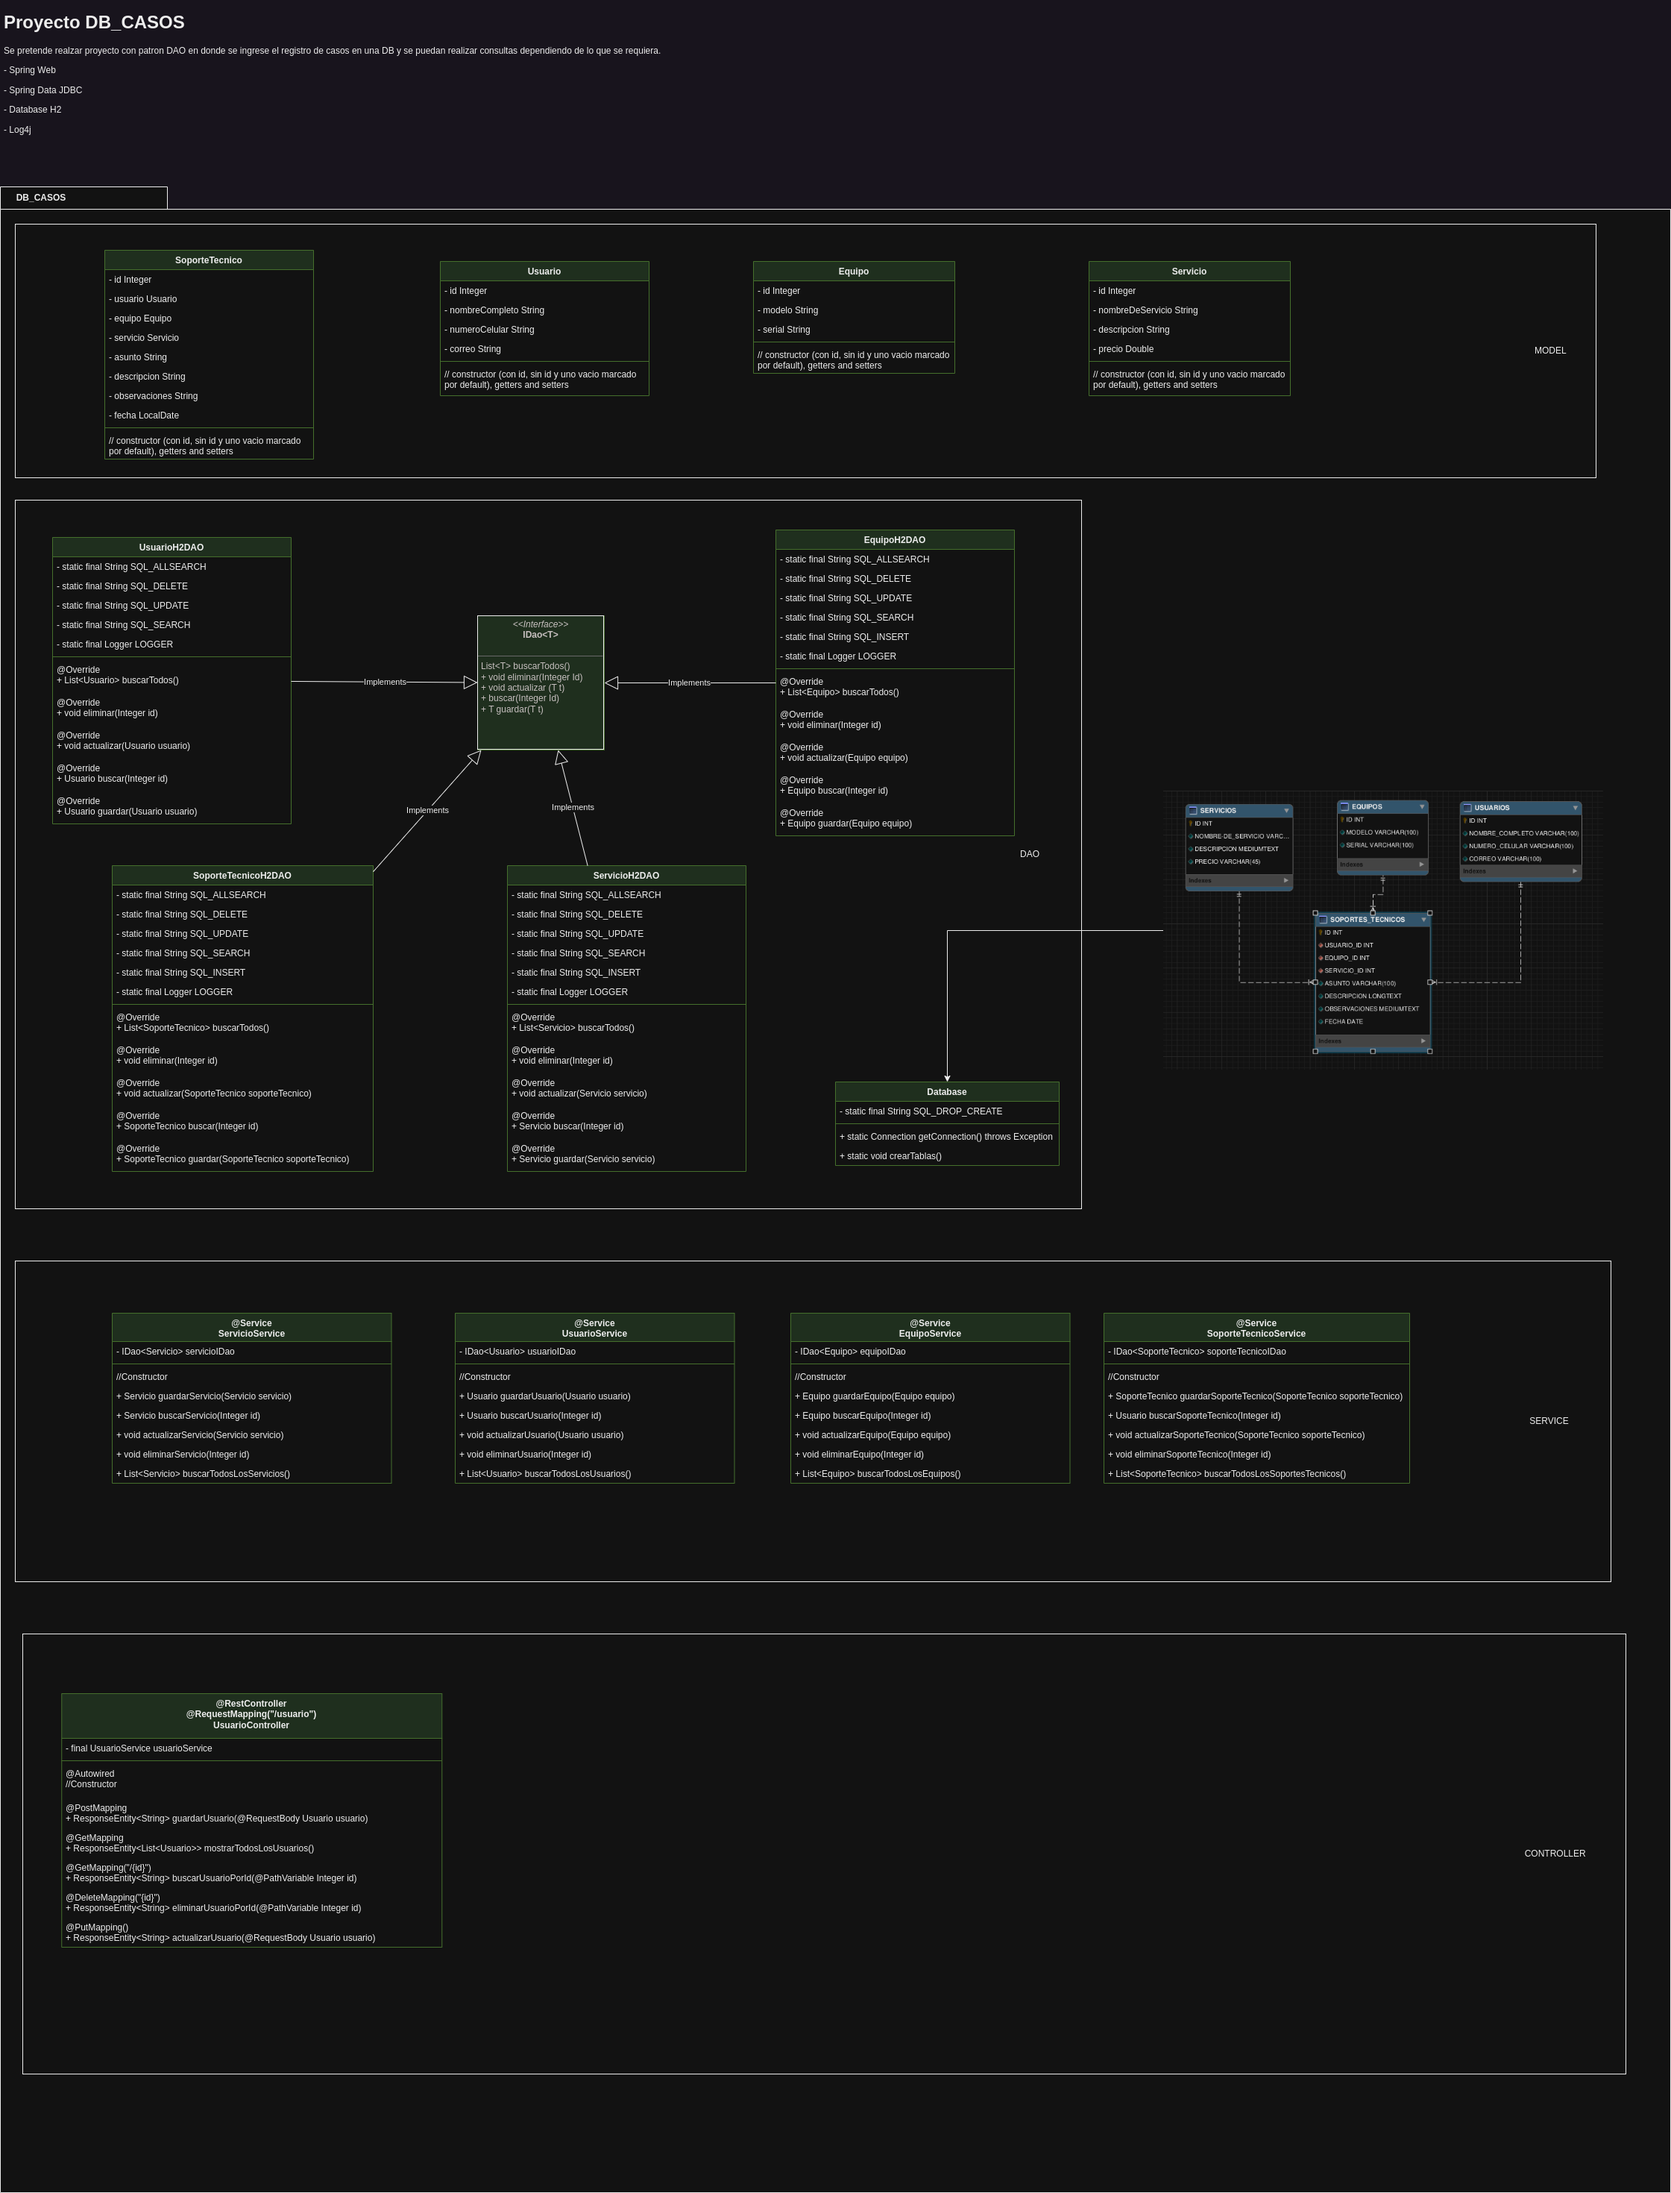
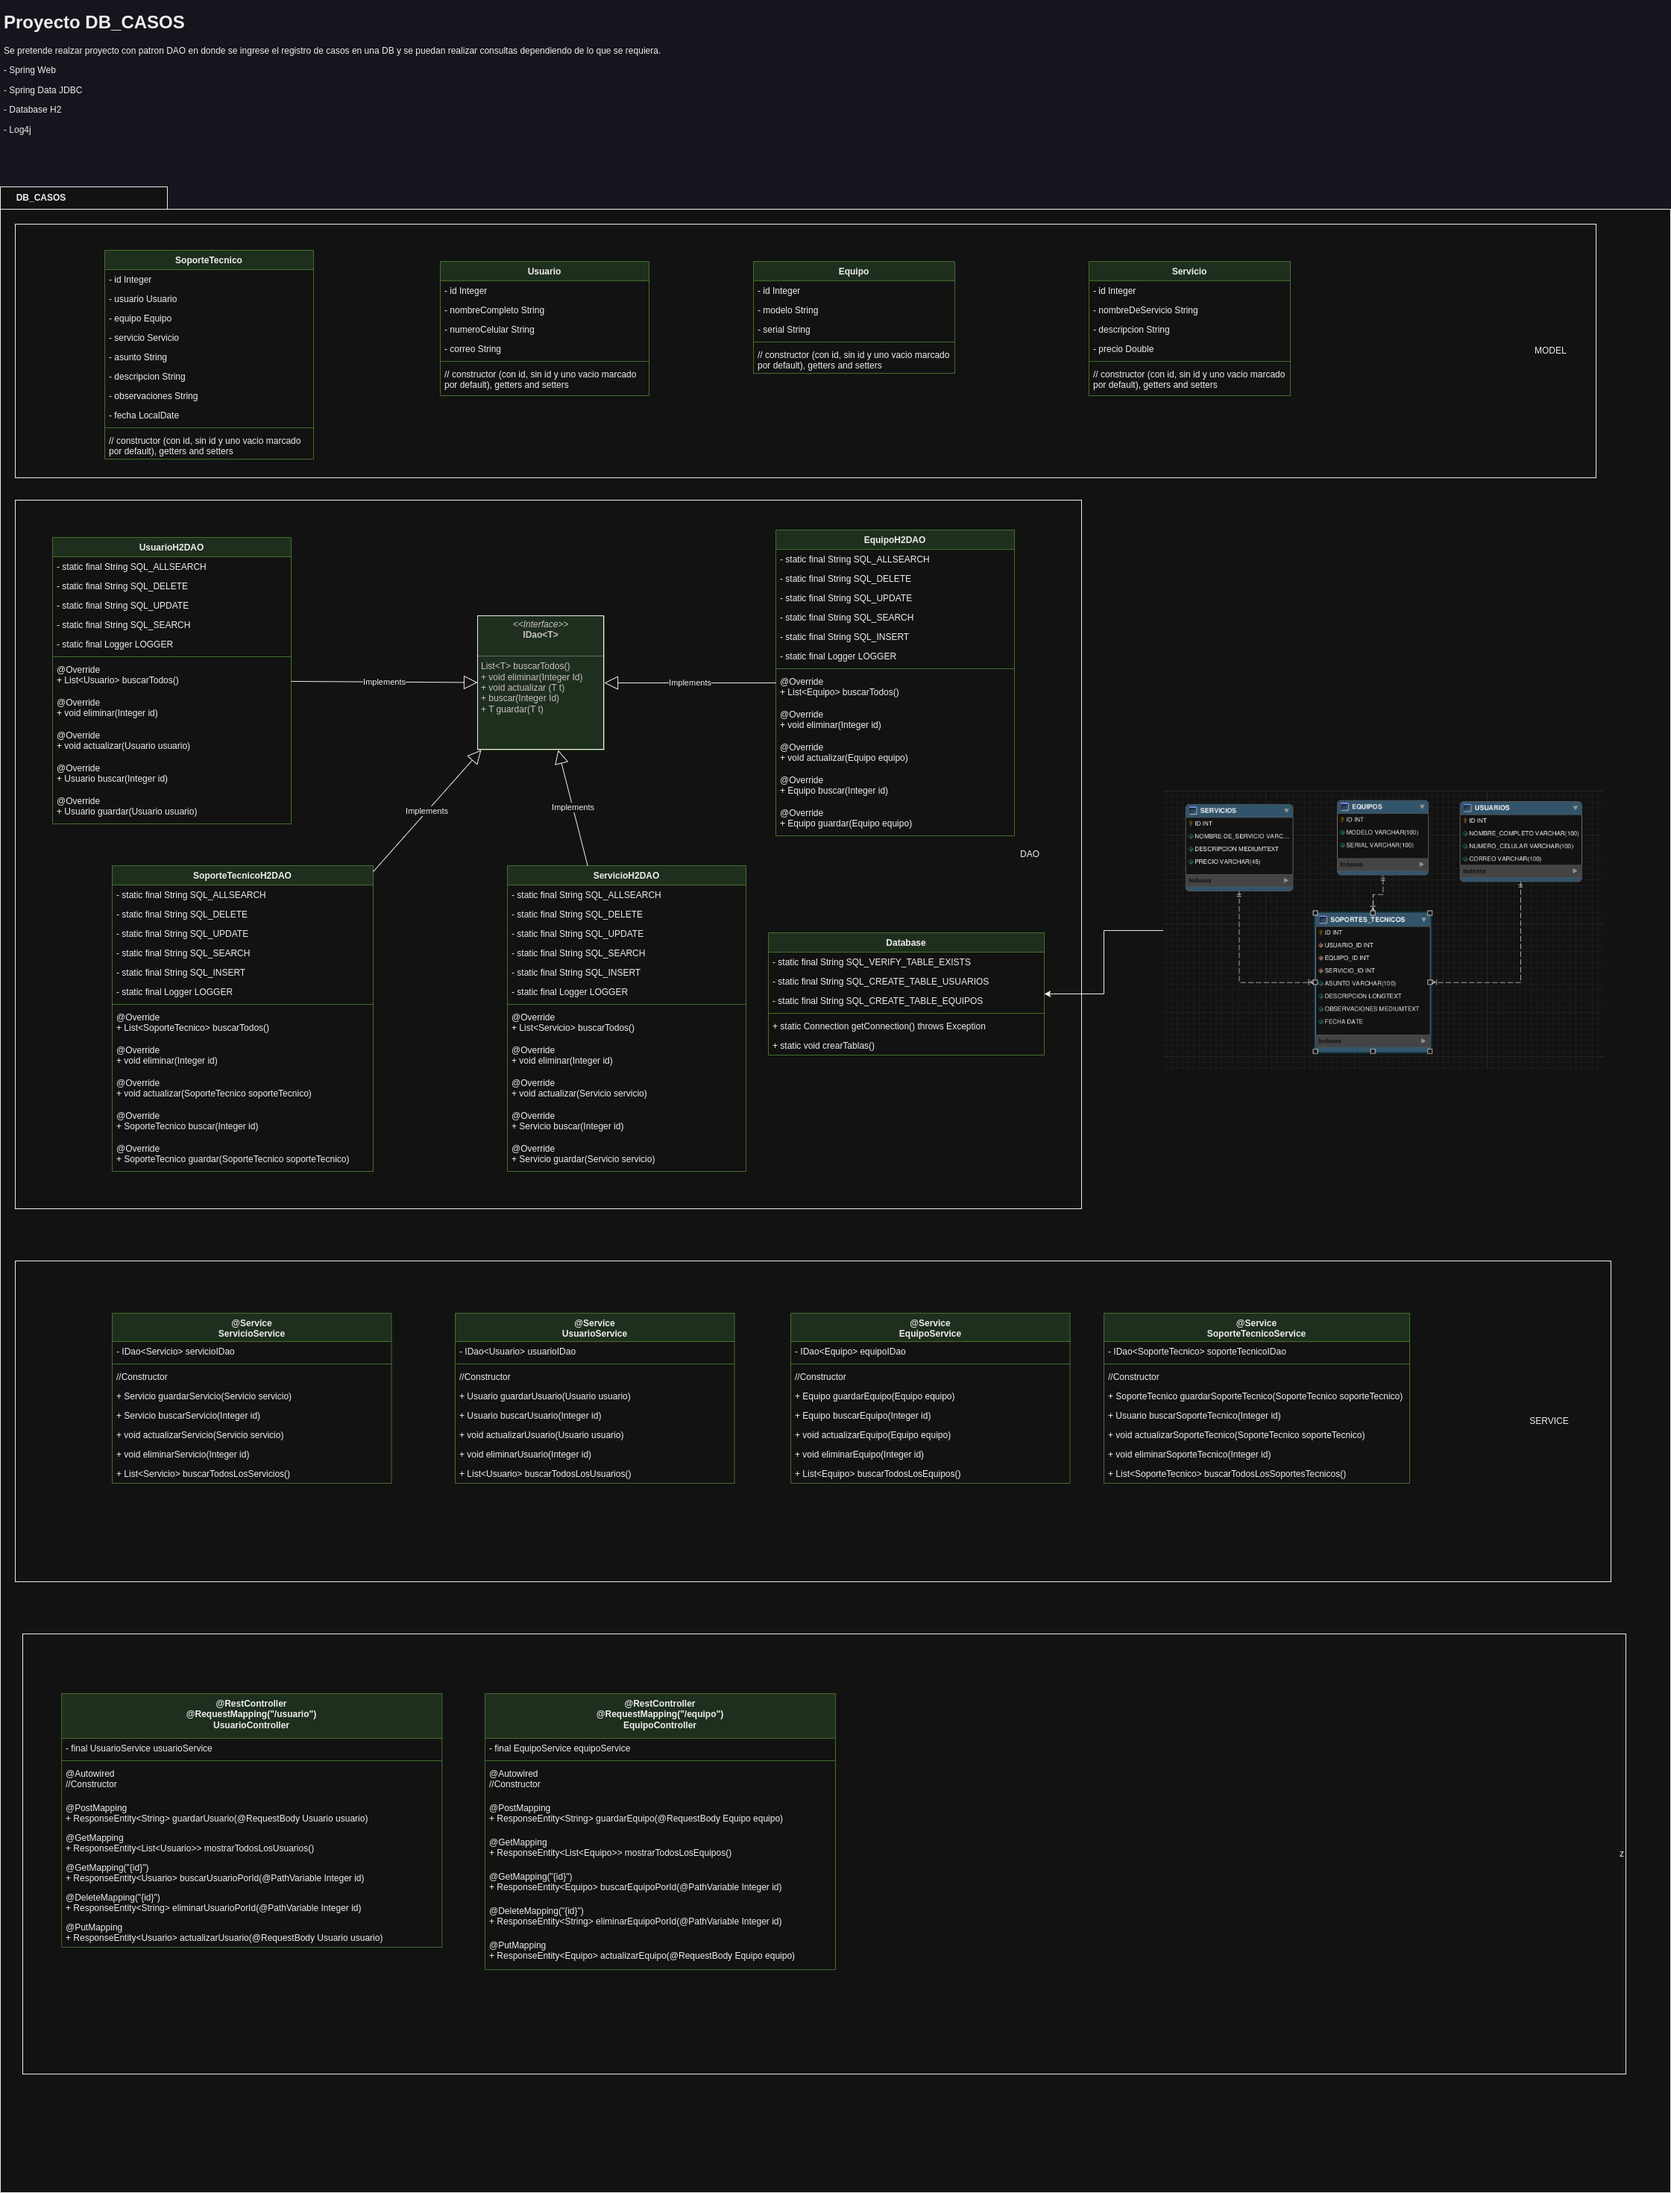
actualizacion de proyecto REPORTE DE CASOS II: culminacion del controller EQUIPOCONTROLLER verificado con los test postman, y actualizacion de UML

Changed region(s): [[0.4685, 0.4024, 0.6247, 0.5262], [0.2811, 0.7738, 0.4998, 0.8976]]

diff --git a/EJERCICIOS DE PRACTICA/reporteDeCasosII/src/main/java/com/amsterdam/reporteDeCasosII/dao/EquipoH2DAO.java b/EJERCICIOS DE PRACTICA/reporteDeCasosII/src/main/java/com/amsterdam/reporteDeCasosII/dao/EquipoH2DAO.java
@@ -9,11 +9,11 @@ import java.util.List;
 
 public class EquipoH2DAO implements IDao<Equipo>{
     //ESTABLECEMOS CONSTANTES:
-    private static final String SQL_ALLSEARCH = "SELECT * FROM equipos;";
-    private static final String SQL_DELETE = " DELETE FROM equipos WHERE ID = ?;";
-    private static final String SQL_UPDATE = "UPDATE equipos SET modelo = ?, SET serial = ?  WHERE ID = ?;";
-    private static final String SQL_SEARCH = "SELECT * FROM equipos WHERE ID = ?;";
-    private static final String SQL_INSERT = "INSERT INTO equipos(modelo, serial) VALUES(?,?);";
+    private static final String SQL_ALLSEARCH = "SELECT * FROM EQUIPOS;";
+    private static final String SQL_DELETE = " DELETE FROM EQUIPOS WHERE ID = ?;";
+    private static final String SQL_UPDATE = "UPDATE EQUIPOS SET MODELO = ?, SERIAL = ?  WHERE ID = ?;";
+    private static final String SQL_SEARCH = "SELECT * FROM EQUIPOS WHERE ID = ?;";
+    private static final String SQL_INSERT = "INSERT INTO EQUIPOS (MODELO, SERIAL) VALUES(?,?);";
     private static final Logger LOGGER = Logger.getLogger(EquipoH2DAO.class);
 
     //SOBREESCRITURA DE METODOS:
@@ -24,6 +24,7 @@ public class EquipoH2DAO implements IDao<Equipo>{
         List<Equipo> equipos = new ArrayList<>();
 
         try{
+            LOGGER.info("Se ha iniciado la busqueda de todos los EQUIPOS de la Database");
             connection = Database.getConnection();
             PreparedStatement psSearchAll = connection.prepareStatement(SQL_ALLSEARCH);
             ResultSet rs = psSearchAll.executeQuery();
@@ -31,14 +32,16 @@ public class EquipoH2DAO implements IDao<Equipo>{
             while (rs.next()){
                 equipo = new Equipo(rs.getInt(1),rs.getNString(2),rs.getNString(3));
                 equipos.add(equipo);
+                LOGGER.info("SE ha de mostrar el EQUIPO de serial:" + equipo.getSerial());
             }
+            LOGGER.info("Se ha finalizado la busqueda de todos los EQUIPOS de la Database");
 
         }catch (Exception e1){
             e1.printStackTrace();
         }finally {
             try {
                 connection.close();
-            }catch (SQLException e2){
+            }catch (Exception e2){
                 e2.printStackTrace();
             }
         }
@@ -93,6 +96,7 @@ public class EquipoH2DAO implements IDao<Equipo>{
         Equipo equipo = null;
 
         try {
+            LOGGER.info("Se ha comenzado la busqueda de un EQUIPO con ID:" + id);
             connection = Database.getConnection();
             PreparedStatement psSearch = connection.prepareStatement(SQL_SEARCH);
             psSearch.setInt(1,id);
@@ -100,6 +104,7 @@ public class EquipoH2DAO implements IDao<Equipo>{
 
             while (rs.next()){
                 equipo = new Equipo(rs.getInt(1),rs.getNString(2),rs.getNString(3));
+                LOGGER.info("Se ha encontrado la busqueda para el EQUIPO con el ID: " + id + " bajo el serial: " + equipo.getSerial());
             }
 
         }catch (Exception e1){
@@ -107,7 +112,7 @@ public class EquipoH2DAO implements IDao<Equipo>{
         }finally {
             try {
                 connection.close();
-            }catch (SQLException e2){
+            }catch (Exception e2){
                 e2.printStackTrace();
             }
         }
@@ -119,16 +124,17 @@ public class EquipoH2DAO implements IDao<Equipo>{
         Connection connection = null;
 
         try {
+            LOGGER.info("Se ha comenzado el proceso de guardado de datos para un equipo.");
             connection = Database.getConnection();
             PreparedStatement psInsert = connection.prepareStatement(SQL_INSERT, Statement.RETURN_GENERATED_KEYS);
             psInsert.setString(1,equipo.getModelo());
             psInsert.setString(2,equipo.getSerial());
-            psInsert.setInt(3,equipo.getId());
             psInsert.execute();
 
             ResultSet rs = psInsert.getGeneratedKeys();
             while (rs.next()){
                 equipo.setId(rs.getInt(1));
+                LOGGER.info("Se ha generado el ID: "+ equipo.getId() +" para el equipo a ingresar.");
             }
 
         }catch (Exception e1){
@@ -136,7 +142,7 @@ public class EquipoH2DAO implements IDao<Equipo>{
         }finally {
             try {
                 connection.close();
-            }catch (SQLException e2){
+            }catch (Exception e2){
                 e2.printStackTrace();
             }
         }

diff --git a/EJERCICIOS DE PRACTICA/reporteDeCasosII/src/main/java/com/amsterdam/reporteDeCasosII/controller/EquipoController.java b/EJERCICIOS DE PRACTICA/reporteDeCasosII/src/main/java/com/amsterdam/reporteDeCasosII/controller/EquipoController.java
@@ -1,0 +1,71 @@
+package com.amsterdam.reporteDeCasosII.controller;
+
+import com.amsterdam.reporteDeCasosII.model.Equipo;
+import com.amsterdam.reporteDeCasosII.service.EquipoService;
+import org.springframework.beans.factory.annotation.Autowired;
+import org.springframework.http.HttpStatus;
+import org.springframework.http.ResponseEntity;
+import org.springframework.web.bind.annotation.*;
+
+import java.util.List;
+
+@RestController
+@RequestMapping("/equipo")
+public class EquipoController {
+    private final EquipoService equipoService;
+
+    //CONSTRUCTOR:
+    @Autowired
+    public EquipoController(EquipoService equipoService) {
+        this.equipoService = equipoService;
+    }
+
+    //METODOS:
+    @PostMapping
+    public ResponseEntity<String> guardarEquipo(@RequestBody Equipo equipo){
+        Equipo equipoAIngresar = equipoService.guardarEquipo(equipo);
+        if (equipoAIngresar != null){
+            return  ResponseEntity.ok("Se ha ingresado a la base de datos el equipo de modelo: " + equipo.getModelo() + ", y serial: "+ equipo.getSerial()+", con el ID: "+ equipo.getId());
+        }else {
+            return  ResponseEntity.badRequest().body("Ha ocurrido un error al momento de intentar ingresar los datos del equipo a la base de datos.");
+        }
+    }
+    @GetMapping
+    public ResponseEntity<List<Equipo>> mostrarTodosLosEquipos(){
+        if (equipoService.buscarTodosLosEquipos() != null){
+            return ResponseEntity.ok().body(equipoService.buscarTodosLosEquipos());
+        }else{
+            return ResponseEntity.badRequest().build();
+        }
+    }
+    @GetMapping("{id}")
+    public ResponseEntity<Equipo> buscarEquipoPorId(@PathVariable Integer id){
+        Equipo equipoABuscar = equipoService.buscarEquipo(id);
+        if (equipoABuscar != null){
+            return ResponseEntity.ok(equipoService.buscarEquipo(id));
+        }else {
+            return ResponseEntity.badRequest().build();
+        }
+    }
+    @DeleteMapping("{id}")
+    public ResponseEntity<String> eliminarEquipoPorId(@PathVariable Integer id){
+        Equipo equipoABuscar = equipoService.buscarEquipo(id);
+        if (equipoABuscar != null){
+            return ResponseEntity.status(HttpStatus.NOT_FOUND).body("Se ha eliminado los datos para el usuario");
+        }else {
+            return ResponseEntity.badRequest().body("Se ha realizado la eliminacion del Equipo con el ID: " + id);
+        }
+    }
+
+    @PutMapping
+    public ResponseEntity<String> actualizarEquipo(@RequestBody Equipo equipo){
+        Equipo equipoABuscar = equipoService.buscarEquipo(equipo.getId());
+        if (equipoABuscar != null){
+            equipoService.actualizarEquipo(equipo);
+            return ResponseEntity.ok("Se ha actualizado los datos del equipo con el ID: "+equipo.getId()+" con los siguientes datos:\nMODELO: "+ equipo.getModelo()+"\nSERIAL: "+equipo.getSerial());
+        }else {
+            return ResponseEntity.badRequest().build();
+        }
+    }
+
+}

diff --git a/EJERCICIOS DE PRACTICA/reporteDeCasosII/src/main/java/com/amsterdam/reporteDeCasosII/controller/UsuarioController.java b/EJERCICIOS DE PRACTICA/reporteDeCasosII/src/main/java/com/amsterdam/reporteDeCasosII/controller/UsuarioController.java
@@ -32,7 +32,7 @@ public class UsuarioController {
             return ResponseEntity.ok("Se ha logrado ingresar los datos del USUARIO: " + usuario.getNombreCompleto()+" generando el ID: " + usuario.getId());
         }else{
             return ResponseEntity.badRequest().body("Ha ocurrido un error al momento de guardar la informacion. Al parecer el usuario ya existe en la base de datos.");
-        } //==> esto está OK
+        }
     }
 
     @GetMapping
@@ -41,17 +41,17 @@ public class UsuarioController {
             return ResponseEntity.ok(usuarioService.buscarTodosLosUsuarios());
         }else {
             return ResponseEntity.badRequest().build();
-        }//==> esto está OK
+        }
     }
 
-    @GetMapping("/{id}")
-    public ResponseEntity<String> buscarUsuarioPorId(@PathVariable Integer id){
+    @GetMapping("{id}")
+    public ResponseEntity<Usuario> buscarUsuarioPorId(@PathVariable Integer id){
         Usuario usuarioIdBuscado = usuarioService.buscarUsuario(id);
         if(usuarioIdBuscado != null){
-            return ResponseEntity.ok().body("El usuario con el ID: "+ id +",\n corresponde al nombre de: " + usuarioIdBuscado.getNombreCompleto() + ",\n numero de celular: " + usuarioIdBuscado.getNumeroCelular() + ",\n y correo electronico: " + usuarioIdBuscado.getCorreo());
+            return ResponseEntity.ok().body(usuarioService.buscarUsuario(id));
         }else{
-            return ResponseEntity.badRequest().body("No se han logrado encontrar resultados para la busqueda con el ID: " + id);
-        }//==> esto está OK
+            return ResponseEntity.badRequest().build();
+        }
     }
 
     @DeleteMapping("{id}")
@@ -62,7 +62,7 @@ public class UsuarioController {
             return ResponseEntity.status(HttpStatus.NOT_FOUND).body("Se eliminó los datos del usuario de la base de datos, con el ID:" + id);
         }else{
             return ResponseEntity.badRequest().body("Ha ocurrido un error al momento de intentar eliminar la informacion con el ID: "+ id +". Por favor, chequea y vuelve a intentarlo.");
-        }//==> esto está OK
+        }
     }
 
     @PutMapping()
@@ -70,9 +70,9 @@ public class UsuarioController {
         Usuario usuarioIdBuscado = usuarioService.buscarUsuario(usuario.getId());
         if (usuarioIdBuscado != null){
             usuarioService.actualizarUsuario(usuario);
-            return ResponseEntity.ok("Se ha modificado el usuario de forma correcta");
+            return ResponseEntity.ok("Se ha modificado el usuario con el ID: "+ usuario.getId() +" de forma correcta,con los siguientes datos:\n NOMBRE COMPLETO: "+ usuario.getNombreCompleto()+"\n CELULAR: "+ usuario.getNumeroCelular()+"\n CORREO: "+ usuario.getCorreo());
         }else{
             return ResponseEntity.badRequest().body("No se ha encontrado el usuario que se quiere modificar.");
         }
-    }//==> esto está OK
+    }
 }

diff --git a/EJERCICIOS DE PRACTICA/reporteDeCasosII/src/main/java/com/amsterdam/reporteDeCasosII/dao/Database.java b/EJERCICIOS DE PRACTICA/reporteDeCasosII/src/main/java/com/amsterdam/reporteDeCasosII/dao/Database.java
@@ -58,7 +58,7 @@ public class Database {
             connection = getConnection();
             Statement statement = connection.createStatement();
             statement.execute(SQL_CREATE_TABLE_USUARIOS);
-//            statement.execute(SQL_CREATE_TABLE_EQUIPOS);
+            statement.execute(SQL_CREATE_TABLE_EQUIPOS);
 //            statement.execute(SQL_CREATE_TABLE_SERVICIOS);
 //            statement.execute(SQL_CREATE_TABLE_SOPORTES_TECNICOS);
 
